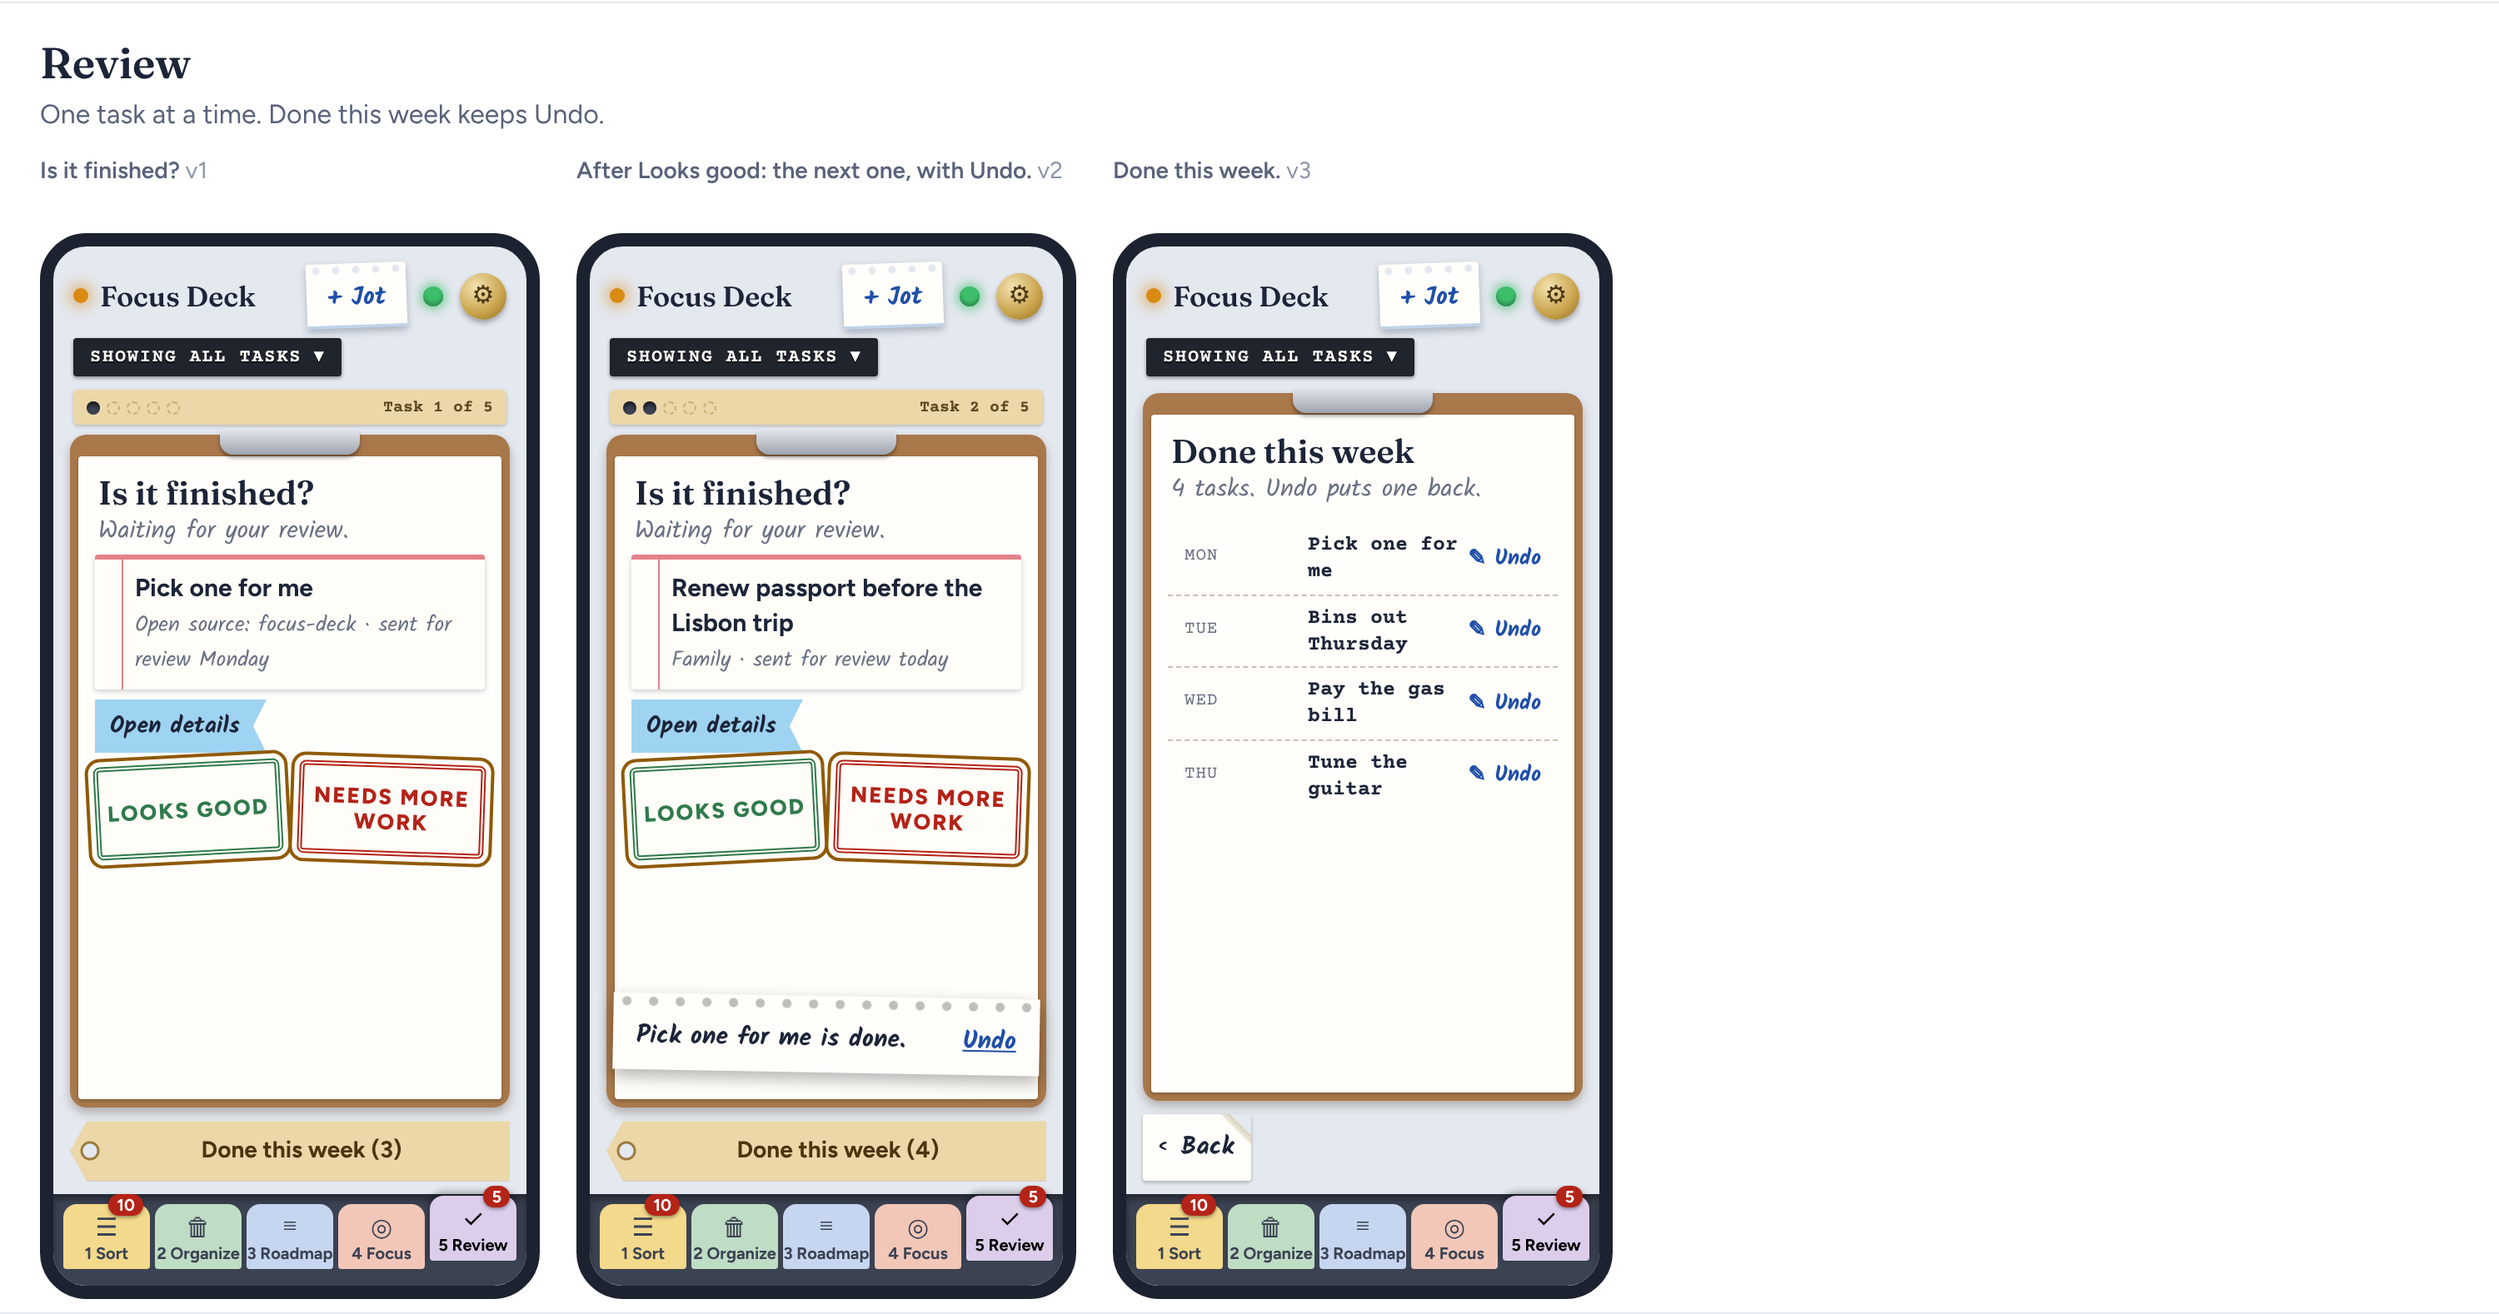
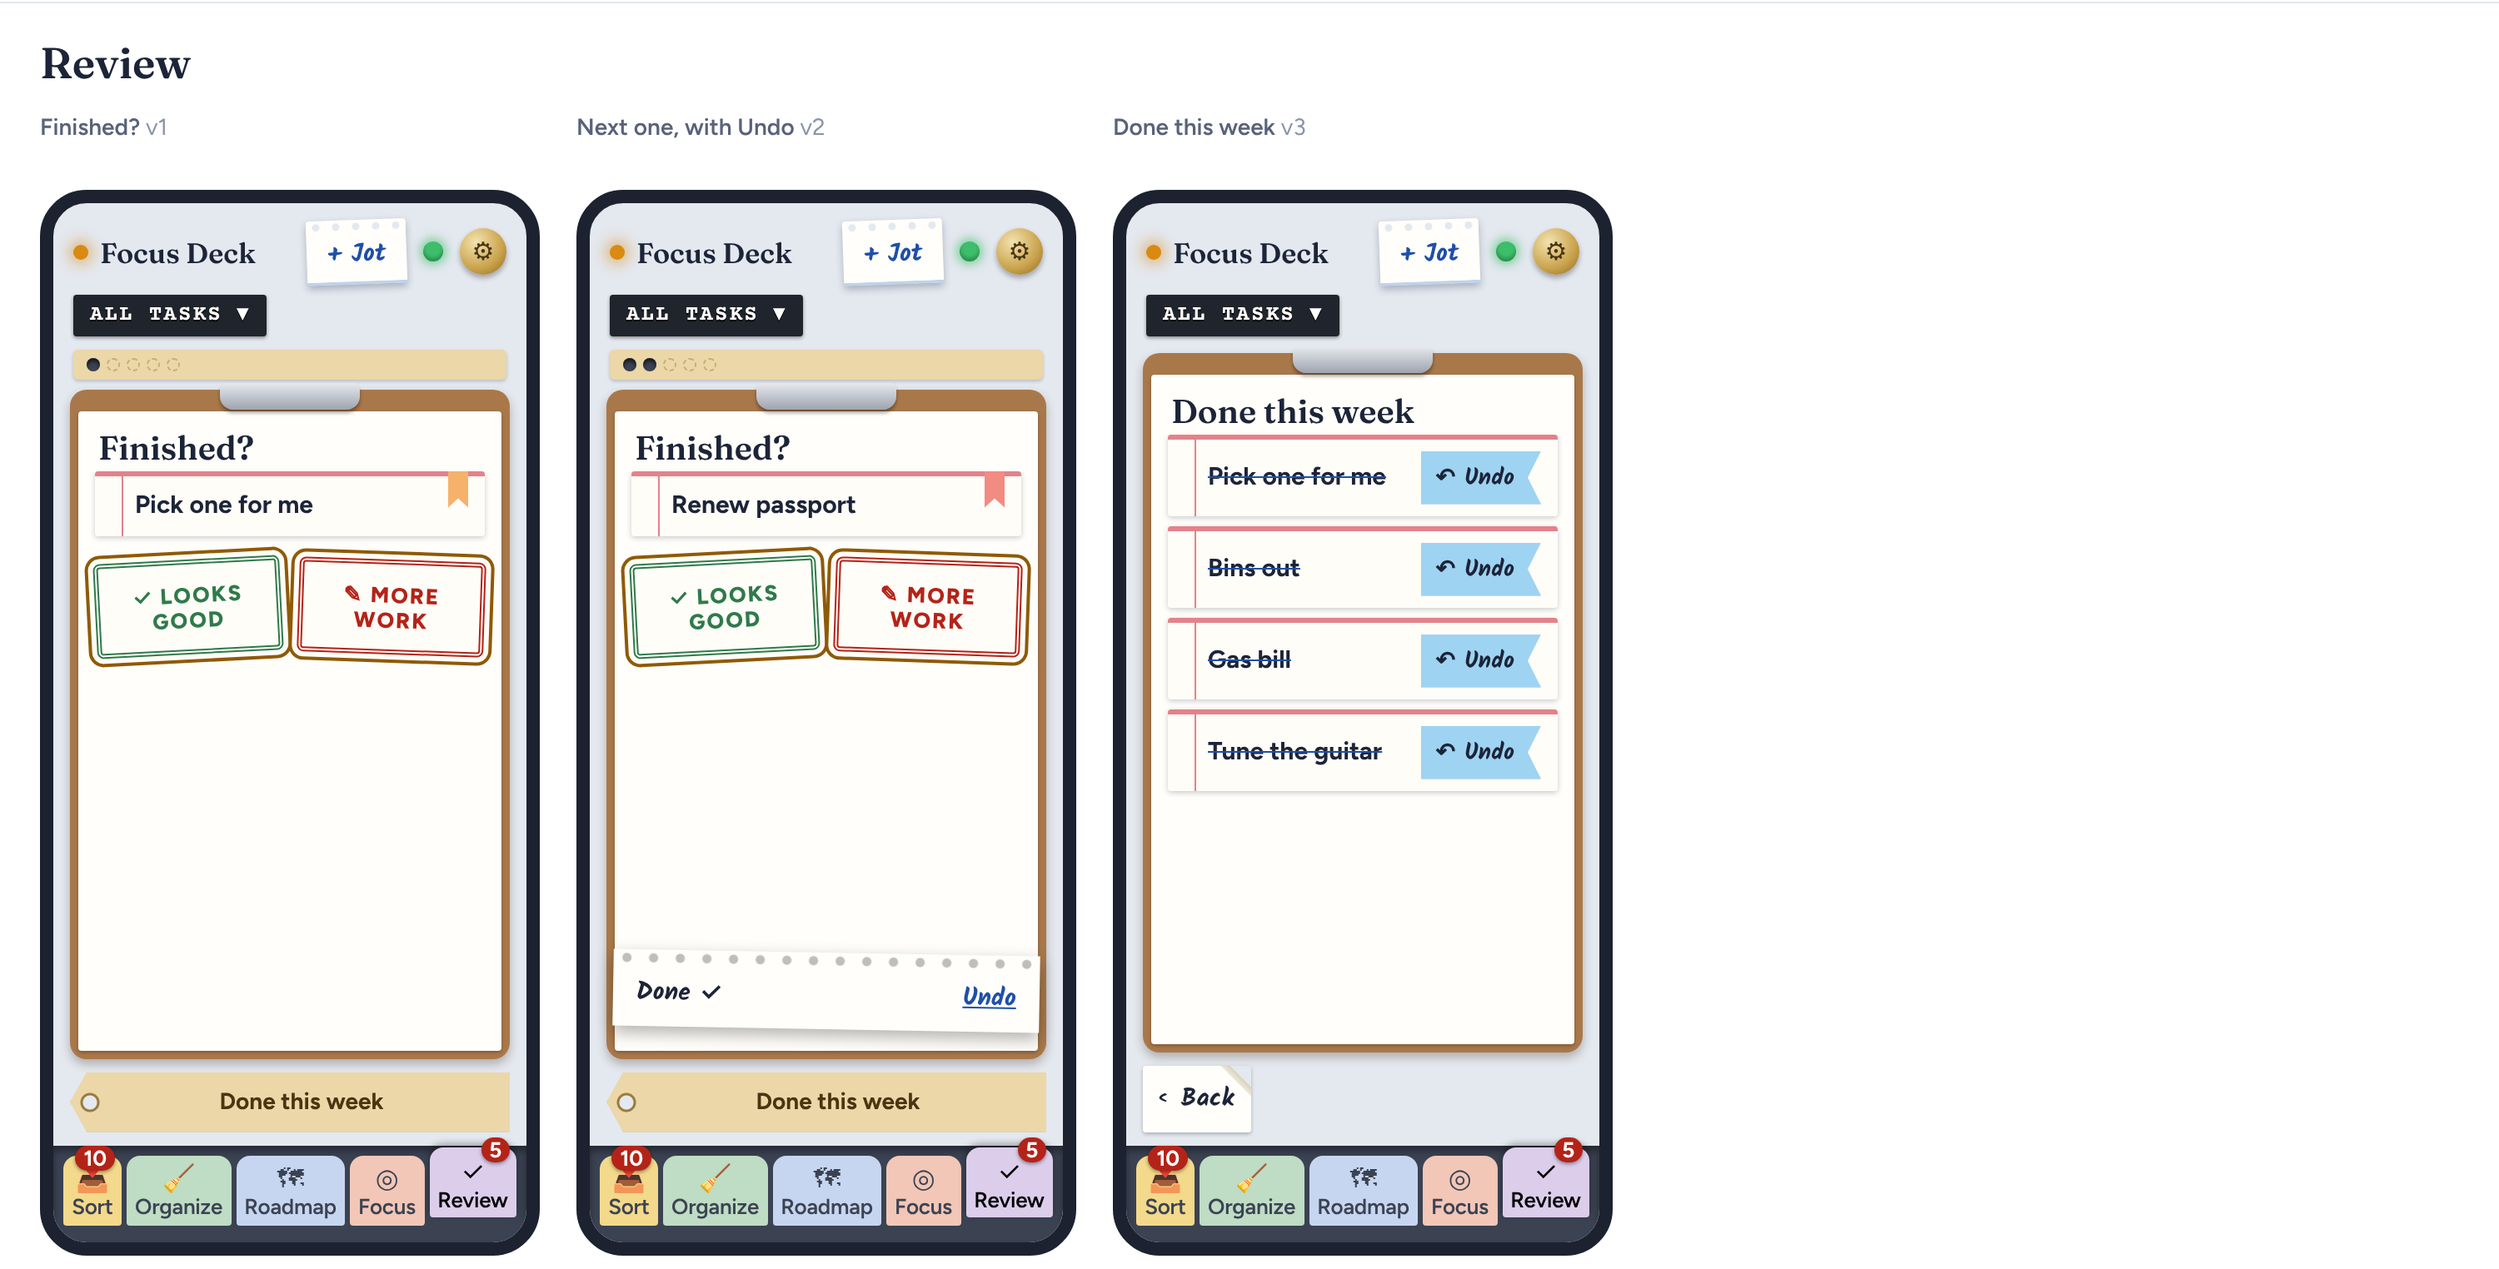
docs: strip small print from step-by-step prototype, every screen fits a phone
Refs #260

Committed by Edens Agent

Changed region(s): [[0.0, 0.0308, 0.651, 0.6785], [0.0, 0.7402, 0.651, 1.0]]

diff --git a/docs/plans/friction-steps.html b/docs/plans/friction-steps.html
@@ -273,7 +273,7 @@ const PAGE = {
   "eyebrow": "Proposal · every screen drawn · nothing built yet",
   "approval": "Design approved: step by step",
   "short": {
-    "lead": "The app failed QA because it shows too much at once. This plan keeps every feature and asks one question per screen. This version draws every screen and step, 83 of them, as a clickable prototype you can tap through, and every button, field and line of text is now a real desk object. Labels and kinds of work are a carousel, like projects. I checked all 125 things the app does today against it, and each one has a screen. The pictures and the prototype are drawings. Nothing is built yet, and your app hasn't changed.",
+    "lead": "The app failed QA because it shows too much at once. This plan keeps every feature and asks one question per screen. This round takes out every caption, hint and line of small print, so each screen has to explain itself with pictures alone. Every one of the 82 screens fits on a phone without scrolling, and no text is smaller than 13px. Two scripts check both on every run, and a third confirms that all 125 things the app does today still have a screen. The pictures and the prototype are drawings. Nothing is built yet, and your app hasn't changed.",
     "hint": "Tap each row to see its picture.",
     "key": [
       [
@@ -312,7 +312,7 @@ const PAGE = {
         "Prototype",
         "Click through every screen yourself",
         "",
-        "Every screen in this page is also in a clickable prototype, published as the page 'Step by step prototype' (its link is in the chat, not in the repo). Tap a button and it goes where the real app would go. The list on the left jumps to any of the 83 screens. It is a drawing, not the app, so nothing you tap changes your tasks.",
+        "Every screen in this page is also in a clickable prototype, published as the page 'Step by step prototype' (its link is in the chat, not in the repo). Tap anything and it goes where the real app would go. The list on the left jumps to any of the 82 screens. It is a drawing, not the app, so nothing you tap changes your tasks.",
         "Open the prototype on your phone and try sorting one thought from start to finish."
       ],
       [
@@ -328,8 +328,8 @@ const PAGE = {
         "Look",
         "Every control is a real object",
         "you",
-        "No plain buttons are left. Each kind of control has one desk object, the same on every screen, and they match the objects the app already has (folders, index cards, the sticky note, jotter slips). The next step is an ink-stamped card. Back is a page corner folded back. Skip and links are sticky flags. A choice is an index card, and the one you picked gets a paperclip. Priority is coloured page flags, due dates are tear-off calendar pages, and status, Looks good and Done are rubber stamps. Tidy up keeps things in a tray, closes them in a bin and merges them with a stapler. Search is a magnifying glass, typing goes on a jotter strip, the check screen is a till receipt you change in pencil, and menus are a card-index drawer. Every question sits on a clipboard, the tabs are ring-binder dividers, and 'Showing' is label-maker tape.",
-        "Check that each object reads as what it does. Tell me any that don't.",
+        "No plain buttons are left. Each kind of control has one desk object, the same on every screen. The next step is an ink-stamped card, Back is a folded page corner, and Skip is a sticky flag. A choice is an index card, and the one you picked gets a paperclip. Priority is coloured page flags, due dates are tear-off calendar pages, and status, Looks good and Done are rubber stamps. Tidy up uses a tray to keep, a bin to close and a stapler to merge. The check screen is a till receipt you change in pencil, menus are a card-index drawer, and what you're looking at is label-maker tape. The descriptions in this picture are for you reviewing it; none of them appear in the app.",
+        "Check that each object reads as what it does without a label. Tell me any that don't.",
         {
           "src": "friction-steps-pics/p-kit.png",
           "alt": "A grid of 27 controls drawn as desk objects",
@@ -341,8 +341,8 @@ const PAGE = {
         "Everywhere",
         "Header, + Jot and Showing",
         "you",
-        "The header keeps the name, + Jot (your pick), a sync dot and the cog. + Jot opens a screen with only the box; 'Goes to' picks Sort or a project, like today's To: stamp. The one 'Showing' line opens the All / Area / Project switch in a panel that slides up. The sync dot opens Sync now.",
-        "Check that a sync dot is enough in place of the sync button.",
+        "The header keeps the name, + Jot, a sync light and the settings dial. + Jot opens a screen with only the jotter and a 'where it goes' card. The label-maker tape (ALL TASKS) opens the drawer that switches between everything, one area and one project. The green light opens Sync now.",
+        "Check that a green light is enough in place of the sync button.",
         {
           "src": "friction-steps-pics/p-header.png",
           "alt": "Eight phone screens: jot, where it goes, saved, the Showing sheet for all, area and project, sync and settings",
@@ -354,7 +354,7 @@ const PAGE = {
         "Sort",
         "One thought, nine steps",
         "you",
-        "Your order, with the two link steps from today put back: project, priority, labels, due date (with an optional 'when to warn you'), part of, subtasks, waits on, holds up, then check. Priority can't be skipped; every other step after it has Skip. The ⋯ on the thought holds Add notes, Done already, Later and Delete. Labels are now a carousel of index cards, like projects: you flip through them and tap to pick, a paperclip marks each one you picked, and the picked ones collect as tags underneath. Find narrows the cards, 'A to Z' opens the card drawer, and the last card is '+ New label'. Project has '+ New project'. The check screen shows every answer with Change.",
+        "Your order: project, priority, labels, due date, part of, smaller steps, what has to happen first, what is waiting on this, then the receipt. A row of dots at the top shows how far along you are. Priority has no Skip; every step after it does. Labels are a carousel of index cards, and the ones you pick collect as tags underneath. A to Z opens the card drawer. The ⋯ on the thought holds notes, done already, later and delete. The receipt shows every answer, and the pencil beside each one goes back to that step.",
         "Check that nine steps isn't too long. If it is, option 2 of the first choice below offers a shorter way.",
         {
           "src": "friction-steps-pics/p-sort.png",
@@ -367,7 +367,7 @@ const PAGE = {
         "Sort",
         "Several at once",
         "you",
-        "Today's 'Select many' becomes five steps: tick the thoughts (Tick all, Clear ticks), one project, labels, group them under one task, check. Priority and due dates stay one task at a time, as today.",
+        "Today's 'Select many' becomes five steps: tick the thoughts, pick one project, labels, group them under one task, then the receipt. Priority and due dates stay one task at a time, as today.",
         "Check that grouping under one task is worth its own step.",
         {
           "src": "friction-steps-pics/p-many.png",
@@ -380,8 +380,8 @@ const PAGE = {
         "Organize",
         "Tidy up, then Triage",
         "you",
-        "Organize starts by naming its two jobs. Tidy up shows one task at a time with its reason: waiting for review, replaced by newer work (it shows what replaced it), looks the same as another (both shown, Keep both or Merge), and not touched in 60 days. Nothing closes until the confirm screen, and Undo follows. Triage shows Now; Next and Later open on their own screens; 'Move…' turns on the move arrows and a 'Reset to the rules' button; 'Why these?' lists the seven real rules from the app.",
-        "Check that the Tidy up reasons read clearly one at a time.",
+        "Organize opens on two cards, Tidy up and Triage. Tidy up shows one task at a time under a plain question: Finished?, Replaced?, The same? or Still want it? You drop it in the tray to keep it or the bin to close it, and The same? offers a stapler to merge. Nothing closes until the Close these? list, and a slip with Undo follows. Triage shows the three tasks to do first, with Next and Later as flags you tap to open. Move turns on the arrows, with a Reset card.",
+        "Check that each Tidy up question is clear without the longer reason the app shows today.",
         {
           "src": "friction-steps-pics/p-organize.png",
           "alt": "Twelve phone screens of Tidy up and Triage",
@@ -393,7 +393,7 @@ const PAGE = {
         "Roadmap",
         "All projects, and a new project",
         "you",
-        "The project list keeps Find, progress bars and ways to sort (A to Z, most open tasks, closest deadline, recently synced, my own order with arrows). A new project is four steps: name, area, colour, then GitHub (not on GitHub, link one of my repos, create a new repo, or track someone else's repo).",
+        "The project list keeps Find, a progress ruler on each folder, and a drawer to sort by A to Z, most tasks, due soonest, last synced or your own order. A new project is four steps: name, area, colour, then GitHub (no, my repo, a new repo, or someone else's).",
         "Check that GitHub as the last optional step suits you.",
         {
           "src": "friction-steps-pics/p-roadmap.png",
@@ -419,8 +419,8 @@ const PAGE = {
         "Task details",
         "Every detail on one list",
         "you",
-        "Task details stops folding things away. It lists status, priority, due, labels, part of, subtasks, waits on, holds up, notes and GitHub, each with its answer. Tapping a line opens the same question the Sort step uses, with Save instead of Next. Subtasks and the GitHub issue get their own screens. ⋯ More holds rename, move to another project and delete.",
-        "Check that ten lines at once is calm enough; it scrolls a little on a phone.",
+        "Task details is a status stamp and a receipt: priority, due, labels, smaller steps, waits on, notes and GitHub. The pencil on each line opens the same step Sort uses. Tapping the stamp changes status. The ⋯ drawer holds Rename, Move, Part of, Holds up and Delete.",
+        "Check that 'Part of' and 'Holds up' are fine inside the ⋯ drawer.",
         {
           "src": "friction-steps-pics/p-details.png",
           "alt": "Five phone screens of task details",
@@ -432,8 +432,8 @@ const PAGE = {
         "Focus",
         "Two questions, then one task",
         "you",
-        "Which project (or Pick for me), then what kind of work (Skip means any; Unlabelled and Surprise me are in the folders). Kinds of work are index cards, as in the app today. Then one task on its sticky note, with two rubber stamps: 'I've done it' and 'Not this one'. The More button lists: start it, subtasks (tick, or tap to focus on one), details, go to the project, and clear. When you finish, the note peels away as today and you pick again.",
-        "Check that More is the right place for Start it.",
+        "Which project (or Pick for me), then what kind of work, both as carousels. Then one task on its sticky note, with two rubber stamps: Done and Another. The ⋯ drawer holds Start it, Smaller steps, Details, Project and Clear. When you finish, the note is crossed out and Next one picks again.",
+        "Check that the ⋯ drawer is the right place for Start it.",
         {
           "src": "friction-steps-pics/p-focus.png",
           "alt": "Six phone screens of Focus",
@@ -445,7 +445,7 @@ const PAGE = {
         "Review",
         "One task at a time",
         "you",
-        "Review asks 'Is it finished?' one task at a time, with two rubber stamps: Looks good or Needs more work, and Open details. Done this week keeps Undo on each task.",
+        "Review asks 'Finished?' one task at a time, with two rubber stamps: Looks good and More work. A slip with Undo follows each one. Done this week lists the week's tasks, each with an Undo flag.",
         "Check that one at a time suits Review too.",
         {
           "src": "friction-steps-pics/p-review.png",
@@ -588,7 +588,7 @@ const PAGE = {
     ]
   ],
   "wrapup": {
-    "summary": "Every screen is now drawn, 83 in all, as pictures here and as a clickable prototype. All 125 things the app does today have a screen. Sort becomes nine steps, Task details one list, Focus two questions, Tidy up and Review one task at a time, and the Roadmap one milestone at a time.",
+    "summary": "Every screen is drawn, 82 in all, with no small print and none taller than a phone. All 125 things the app does today have a screen. Sort becomes nine steps, Task details a receipt, Focus two questions, Tidy up and Review one task at a time, and the Roadmap one milestone at a time.",
     "changing": "Changed: how much each screen shows at once, Sort, adding a task, Focus, Tidy up, Triage, the Roadmap, Task details and Milestone settings. Kept: every feature, your data, the five tabs, Review and Settings.",
     "blocking": "Waiting on your sign-off and your two remaining choices. The jot choice is already made: + Jot at the top.",
     "next": "After you approve, I'll write the build plan as GitHub issues and build it on the same test link. Nothing goes into the app you use until you've tested it.",

diff --git a/docs/5-today/Today.md b/docs/5-today/Today.md
@@ -601,3 +601,11 @@ Eden picked the "+ Jot" button for the step-by-step proposal, placed in the head
 ## 2026-11-12, later still: every control drawn as a real desk object
 
 Eden asked that nothing in the prototype be a plain button or plain text, and that labels use the carousel. prototype.html now draws each kind of control as one desk object (its "Every control is a real object" section lists all 27), and labels and kinds of work are index-card carousels like the project folders. The checks still pass: 83 screens, no broken taps, nothing cut off, all 125 actions mapped. Waiting on Eden's review.
+
+## 2026-11-12: step by step, small print removed
+
+- Eden asked for all small text, captions and explanations to go, and for no screen to be longer than a phone.
+- Every screen in docs/generated/friction-steps/prototype.html now has only its question and its objects. There are 82 screens; r14 was folded away.
+- shoot-prototype.cjs now fails on own text under 13px and on any screen taller than 660px. The last run passed: 82 screens, nothing cut off, nothing taller than a phone, no small text.
+- check-feature-map.cjs still passes: all 125 app actions are mapped.
+- docs/plans/friction-steps.json was rewritten to match. It still waits on Eden's sign-off. No app code was changed.
